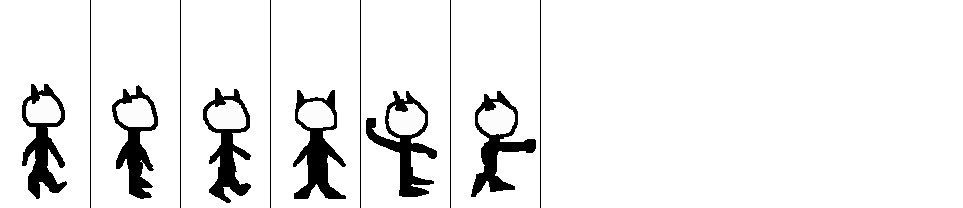
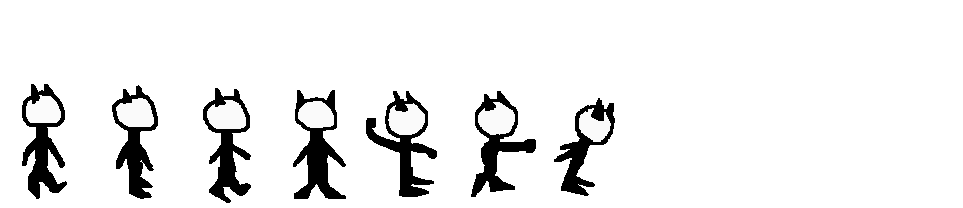
Add files via upload

Changed region(s): [[0.5607, 0.4904, 0.6542, 0.9519]]

diff --git a/Knight.cpp b/Knight.cpp
@@ -20,7 +20,7 @@ void Knight::loadtexture(string path_right, string path_left, SDL_Renderer* rend
 
 }
 
-void Knight::handleEvent(SDL_Event &e, SDL_Rect SpriteClips[], Monster &monster, SDL_Renderer* renderer, SDL_Texture* mapp, SDL_Rect camera)
+void Knight::handleEvent(SDL_Event &e, SDL_Rect SpriteClips[], Monster monster[], SDL_Renderer* renderer, SDL_Texture* mapp, SDL_Rect camera, int LEVEL_WIDTH, int LEVEL_HEIGHT)
 {
     if(e.type == SDL_KEYDOWN && e.key.repeat == 0)
     {
@@ -39,43 +39,150 @@ void Knight::handleEvent(SDL_Event &e, SDL_Rect SpriteClips[], Monster &monster,
         }
     }
 
-    if(e.key.keysym.sym == SDLK_RIGHT)
+    if(e.key.keysym.sym == SDLK_RIGHT || e.key.keysym.sym == SDLK_LEFT)
     {
         currentClip = &SpriteClips[frame/4];
         frame++;
         if(frame/4 >= 4) frame = 0;
     }
 
-    else if(e.key.keysym.sym == SDLK_LEFT)
-    {
-        currentClip = &SpriteClips[frame/4];
-        frame++;
-        if(frame/4 >= 4) frame = 0;
-    }
-
-    if(e.key.keysym.sym == SDLK_z && e.type == SDL_KEYDOWN && e.key.repeat == 0)
+    if(e.key.keysym.sym == SDLK_z && e.type == SDL_KEYDOWN && e.key.repeat == 0 && currentClip != &SpriteClips[6]) //z: Attack
     {
         int fight_scene = 40;
         while(fight_scene/10 <= 5)
         {
             currentClip = &SpriteClips[fight_scene/10];
+            for(int i=0; i<=3; i++) monster[i].move(mPosX, SpriteClips);
+            for(int i=0; i<=3; i++) this->hits_monster_status(monster[i], SpriteClips);
 
             SDL_RenderClear(renderer);
             render_map(renderer, mapp, camera);
             this->render(camera.x, camera.y, renderer);
-            this->monster_continue(monster, SpriteClips);
-            monster.render(camera.x, camera.y, renderer);
+            for(int i=0; i<=3; i++) monster[i].render(camera.x, camera.y, renderer);
             SDL_RenderPresent(renderer);
             fight_scene++;
         }
-        SDL_RenderClear(renderer);
+        currentClip = &SpriteClips[frame/4];
+    }
+
+
+    if(e.key.keysym.sym == SDLK_UP && e.type == SDL_KEYDOWN && e.key.repeat == 0)// up: jump
+    {
+        currentClip = &SpriteClips[6];
+        int i=1;
+        while(i<=10)
+        {
+            mPosY-=i;
+            mPosX+=mVelX*2;
+            for(int i=0; i<=3; i++) monster[i].move(mPosX, SpriteClips);
+            camera.x = mPosX - camera.w/2;
+            camera.y = mPosY - camera.h/2;
+            if(camera.x < 0)
+            {
+                camera.x = 0;
+            }
+            if(camera.y < 0)
+            {
+                camera.y = 0;
+            }
+            if(camera.x > LEVEL_WIDTH - camera.w)
+            {
+                camera.x = LEVEL_WIDTH - camera.w;
+            }
+            if(camera.y > LEVEL_HEIGHT - camera.h)
+            {
+                camera.y = LEVEL_HEIGHT - camera.h;
+            }
+
+            SDL_RenderClear(renderer);
+            render_map(renderer, mapp, camera);
+            this->render(camera.x, camera.y, renderer);
+            for(int i=0; i<=3; i++) monster[i].render(camera.x, camera.y, renderer);
+            SDL_RenderPresent(renderer);
+            i++;
+        }
+        i=1;
+        while(i<=10)
+        {
+            mPosY+=i;
+            mPosX+=mVelX*2;
+            for(int i=0; i<=3; i++) monster[i].move(mPosX, SpriteClips);
+            camera.x = mPosX - camera.w/2;
+            camera.y = mPosY - camera.h/2;
+            if(camera.x < 0)
+            {
+                camera.x = 0;
+            }
+            if(camera.y < 0)
+            {
+                camera.y = 0;
+            }
+            if(camera.x > LEVEL_WIDTH - camera.w)
+            {
+                camera.x = LEVEL_WIDTH - camera.w;
+            }
+            if(camera.y > LEVEL_HEIGHT - camera.h)
+            {
+                camera.y = LEVEL_HEIGHT - camera.h;
+            }
+
+            SDL_RenderClear(renderer);
+            render_map(renderer, mapp, camera);
+            this->render(camera.x, camera.y, renderer);
+            for(int i=0; i<=3; i++) monster[i].render(camera.x, camera.y, renderer);
+            SDL_RenderPresent(renderer);
+            i++;
+        }
         currentClip = &SpriteClips[frame/4];
     }
 }
 
-void Knight::move()
+void Knight::hits_monster_status(Monster &monster, SDL_Rect SpriteClips[])
 {
-    mPosX += mVelX*3;
+    if(mPosX < monster.mPosX && mTexture == right)
+    {
+        if(monster.mPosX - mPosX > 30 && monster.mPosX - mPosX < 60 && currentClip == &SpriteClips[5])
+        {
+            monster.currentClip = &SpriteClips[6];
+            monster.mPosX+=3;
+            if(monster.health.w != 0) monster.health.w--;
+            if(monster.health.w == 0) monster.currentClip = &SpriteClips[7];
+        }
+    }
+    else if(mPosX >= monster.mPosX && mTexture == left)
+    {
+        if(mPosX - monster.mPosX > 30 && mPosX - monster.mPosX < 60 && currentClip == &SpriteClips[5])
+        {
+            monster.currentClip = &SpriteClips[6];
+            monster.mPosX-=3;
+            if(monster.health.w != 0) monster.health.w--;
+            if(monster.health.w == 0) monster.currentClip = &SpriteClips[7];
+        }
+    }
+}
+
+void Knight::being_hit_status(Monster &monster, SDL_Rect SpriteClips[])
+{
+    if(mPosX < monster.mPosX)
+    {
+        if(monster.mPosX - mPosX > 0 && monster.mPosX - mPosX < 50 && monster.fight_scene == 250)
+        {
+            if(health.w != 0 && monster.currentClip != &SpriteClips[7]) health.w-=5;
+        }
+    }
+    else
+    {
+        if(mPosX - monster.mPosX > 0 && mPosX - monster.mPosX < 50 && monster.fight_scene == 250)
+        {
+            if(health.w != 0 && monster.currentClip != &SpriteClips[7]) health.w-=5;
+        }
+    }
+}
+
+void Knight::move(SDL_Event &e)
+{
+    if(e.type == SDL_MOUSEMOTION);
+    else mPosX += mVelX*3;
 }
 
 void Knight::render(int camX, int camY, SDL_Renderer* renderer)
@@ -90,40 +197,3 @@ void Knight::render(int camX, int camY, SDL_Renderer* renderer)
     SDL_RenderCopy(renderer, mTexture, currentClip, &quadrad);
 }
 
-void Knight::monster_continue(Monster &monster, SDL_Rect SpriteClips[])
-{
-    if(monster.mPosX > mPosX)
-    {
-        if(monster.mPosX - mPosX <= 400 && monster.mPosX - mPosX >=50)
-        {
-            monster.mPosX--;
-            monster.currentClip = &SpriteClips[monster.frame/4];
-            monster.frame++;
-            if(monster.frame/4 >= 4) monster.frame = 0;
-        }
-
-        if(monster.mPosX - mPosX < 50)
-        {
-            monster.currentClip = &SpriteClips[monster.fight_scene/50];
-            monster.fight_scene++;
-            if(monster.fight_scene/50 >= 6) monster.fight_scene = 200;
-        }
-    }
-
-    else
-    {
-        if(mPosX - monster.mPosX >= 70 && mPosX - monster.mPosX <= 400)
-        {
-            monster.mPosX++;
-            monster.currentClip = &SpriteClips[monster.frame/4];
-            monster.frame++;
-            if(monster.frame/4 >= 4) monster.frame = 0;
-        }
-        if(mPosX - monster.mPosX < 70)
-        {
-            monster.currentClip = &SpriteClips[monster.fight_scene/50];
-            monster.fight_scene++;
-            if(monster.fight_scene/50 >= 6) monster.fight_scene = 200;
-        }
-    }
-}

diff --git a/main.cpp b/main.cpp
@@ -13,13 +13,14 @@ const int LEVEL_HEIGHT = 400;
 const int SCREEN_WIDTH = 640;
 const int SCREEN_HEIGHT = 480;
 
+const int NUMBERS_OF_MONSTERS = 4;
 int main(int argc, char* argv[])
 {
     SDL_Window* window;
     SDL_Renderer* renderer;
     init(window, renderer, SCREEN_WIDTH, SCREEN_HEIGHT);
 
-    SDL_Rect SpriteCLips[6];
+    SDL_Rect SpriteCLips[10];
     SDL_Rect camera = {0, 0, SCREEN_WIDTH, SCREEN_HEIGHT};
     Sprite(SpriteCLips);
 
@@ -30,10 +31,16 @@ int main(int argc, char* argv[])
     knight.currentClip = &SpriteCLips[0];
     knight.render(0, 0, renderer);
 
-    Monster monster;
-    monster.loadtexture("monster2.png", "monster1.png", renderer);
-    monster.currentClip = &SpriteCLips[0];
-    monster.render(0, 0, renderer);
+    Monster monster[4];
+    for(int i=0; i<=3; i++)
+    {
+        monster[i].loadtexture("monster2.png", "monster1.png", renderer);
+        monster[i].currentClip = &SpriteCLips[0];
+        monster[i].render(0, 0, renderer);
+    }
+    monster[1].mPosX = 800;
+    //monster[2].mPosX = 700;
+    //monster[3].mPosX = 900;
 
     bool quit = false;
     SDL_Event e;
@@ -43,11 +50,11 @@ int main(int argc, char* argv[])
         while(SDL_PollEvent(&e) != 0)
         {
             if(e.type == SDL_QUIT) quit = true;
-            knight.handleEvent(e, SpriteCLips, monster, renderer, mapp, camera);
-            knight.move();
+            knight.handleEvent(e, SpriteCLips, monster, renderer, mapp, camera, LEVEL_WIDTH, LEVEL_HEIGHT);
+            knight.move(e);
         }
-        monster.move(knight, SpriteCLips);
-
+        for(int i=0; i<=3; i++) monster[i].move(knight.mPosX, SpriteCLips);
+        for(int i=0; i<=3; i++) knight.being_hit_status(monster[i], SpriteCLips);
         camera.x = knight.mPosX - SCREEN_WIDTH/2;
         camera.y = knight.mPosX - SCREEN_HEIGHT/2;
 
@@ -68,10 +75,9 @@ int main(int argc, char* argv[])
             camera.y = LEVEL_HEIGHT - camera.h;
         }
 
-        if(e.key.keysym.sym != SDLK_z) SDL_RenderClear(renderer);
         render_map(renderer, mapp, camera);
         knight.render(camera.x, camera.y, renderer);
-        monster.render(camera.x, camera.y, renderer);
+        for(int i=0; i<=3; i++) monster[i].render(camera.x, camera.y, renderer);
         SDL_RenderPresent(renderer);
     }
 }

diff --git a/Monster.cpp b/Monster.cpp
@@ -19,19 +19,19 @@ void Monster::loadtexture(string path_right, string path_left, SDL_Renderer* ren
     SDL_FreeSurface(loadedSurface);
 }
 
-void Monster::move(Knight knight, SDL_Rect SpriteClips[])
+void Monster::move(int knight_mPosX, SDL_Rect SpriteClips[])
 {
-    if(knight.mPosX < mPosX)
+    if(knight_mPosX < mPosX)
     {
         mTexture = left;
-        if(mPosX - knight.mPosX <= 400 && mPosX - knight.mPosX >= 50)
+        if(mPosX - knight_mPosX <= 400 && mPosX - knight_mPosX >= 45)
         {
             mPosX--;
             currentClip = &SpriteClips[frame/4];
             frame++;
             if(frame/4 >= 4) frame = 0;
         }
-        if(mPosX - knight.mPosX < 50)
+        if(mPosX - knight_mPosX < 45)
         {
             currentClip = &SpriteClips[fight_scene/50];
             fight_scene++;
@@ -41,24 +41,32 @@ void Monster::move(Knight knight, SDL_Rect SpriteClips[])
     else
     {
         mTexture = right;
-        if(knight.mPosX - mPosX >= 70 && knight.mPosX - mPosX <= 400)
+        if(knight_mPosX - mPosX >= 40 && knight_mPosX - mPosX <= 400)
         {
             mPosX++;
             currentClip = &SpriteClips[frame/4];
             frame++;
             if(frame/4 >= 4) frame = 0;
         }
-        if(knight.mPosX - mPosX < 70)
+        if(knight_mPosX - mPosX < 40)
         {
             currentClip = &SpriteClips[fight_scene/50];
             fight_scene++;
             if(fight_scene/50 >= 6) fight_scene = 200;
         }
     }
+    if(health.w == 0) currentClip = &SpriteClips[7];
 }
 
 void Monster::render(int camX, int camY, SDL_Renderer* renderer)
 {
+    health.x = mPosX - health.w/2 + currentClip->w/2 - camX;
+    health.y = mPosY + 80;
+    SDL_SetRenderDrawColor(renderer, 255, 0, 0, 255);
+    SDL_RenderFillRect(renderer, &health);
+    SDL_SetRenderDrawColor(renderer, 255, 255, 255, 255);
+
     SDL_Rect quadrad = {mPosX - camX, mPosY, currentClip->w, currentClip->h};
     SDL_RenderCopy(renderer, mTexture, currentClip, &quadrad);
 }
+

diff --git a/Knight.h b/Knight.h
@@ -23,10 +23,13 @@ class Knight
         int mVelX = 0, mVelY = 0;
 
         void loadtexture(string path_right, string path_left, SDL_Renderer* renderer);
-        void handleEvent(SDL_Event &e, SDL_Rect SpriteClips[], Monster &monster, SDL_Renderer* renderer, SDL_Texture* mapp, SDL_Rect camera);
-        void move();
+        void handleEvent(SDL_Event &e, SDL_Rect SpriteClips[], Monster monster[], SDL_Renderer* renderer, SDL_Texture* mapp, SDL_Rect camera, int LEVEL_WIDTH, int LEVEL_HEIGHT);
+        void move(SDL_Event &e);
+
+        void hits_monster_status(Monster &monster, SDL_Rect SpriteClips[]);//Chém quái
+        void being_hit_status(Monster &monster, SDL_Rect SpriteClips[]);//Bị đấm
+
         void render(int camX, int camY, SDL_Renderer* renderer);
-        void monster_continue(Monster &monster, SDL_Rect SpriteClips[]);
 };
 
 #endif

diff --git a/Monster.h b/Monster.h
@@ -14,14 +14,14 @@ class Monster
         SDL_Texture* left;
         SDL_Texture* mTexture;
         SDL_Rect* currentClip;
-        SDL_Rect health = {0, 0, 50, 5};
+        SDL_Rect health = {0, 0, 50, 3};
         SDL_Rect SpriteClips[5];
 
         int frame = 0, fight_scene = 200;
         int mPosX = 500, mPosY = 230;
 
         void loadtexture(string path_right, string path_left, SDL_Renderer* renderer);
-        void move(Knight knight, SDL_Rect SpriteClips[]);
+        void move(int knight_mPosX, SDL_Rect SpriteClips[]);
         void render(int camX, int camY, SDL_Renderer* renderer);
 };
 

diff --git a/SDL_utils.cpp b/SDL_utils.cpp
@@ -46,6 +46,17 @@ void Sprite(SDL_Rect SpriteClips[])
     SpriteClips[5].y = 0;
     SpriteClips[5].w = 90;
     SpriteClips[5].h = 208;
+
+    SpriteClips[6].x = 540;//Monster being hit || Knight's jump
+    SpriteClips[6].y = 0;
+    SpriteClips[6].w = 90;
+    SpriteClips[6].h = 208;
+
+    SpriteClips[7].x = 0;//Empty Space
+    SpriteClips[7].y = 0;
+    SpriteClips[7].w = 1;
+    SpriteClips[7].h = 1;
+
 }
 
 SDL_Texture* load_map(SDL_Renderer* renderer, string path)
